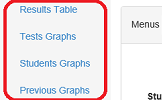
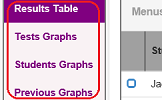
Quick instructions
put in one more

diff --git a/templates/class.html b/templates/class.html
@@ -14,7 +14,8 @@
 
         <div class="container-fluid">
             <div class="row">
-                <div class="col-sm-3 col-md-2 sidebar" style="padding-top: 15px">
+                <div class="col-sm-3 col-md-2 sidebar"
+                     style="padding-top: 15px; padding-bottom: 15px; padding-left: 4px; padding-right: 4px">
                     <div class="middle_color" style="border: 2px solid; border-radius: 4px">
                         <ul class="nav nav-sidebar" id="class_links">
                             {% for link_label, link_url, load_type in class_tabs %}
